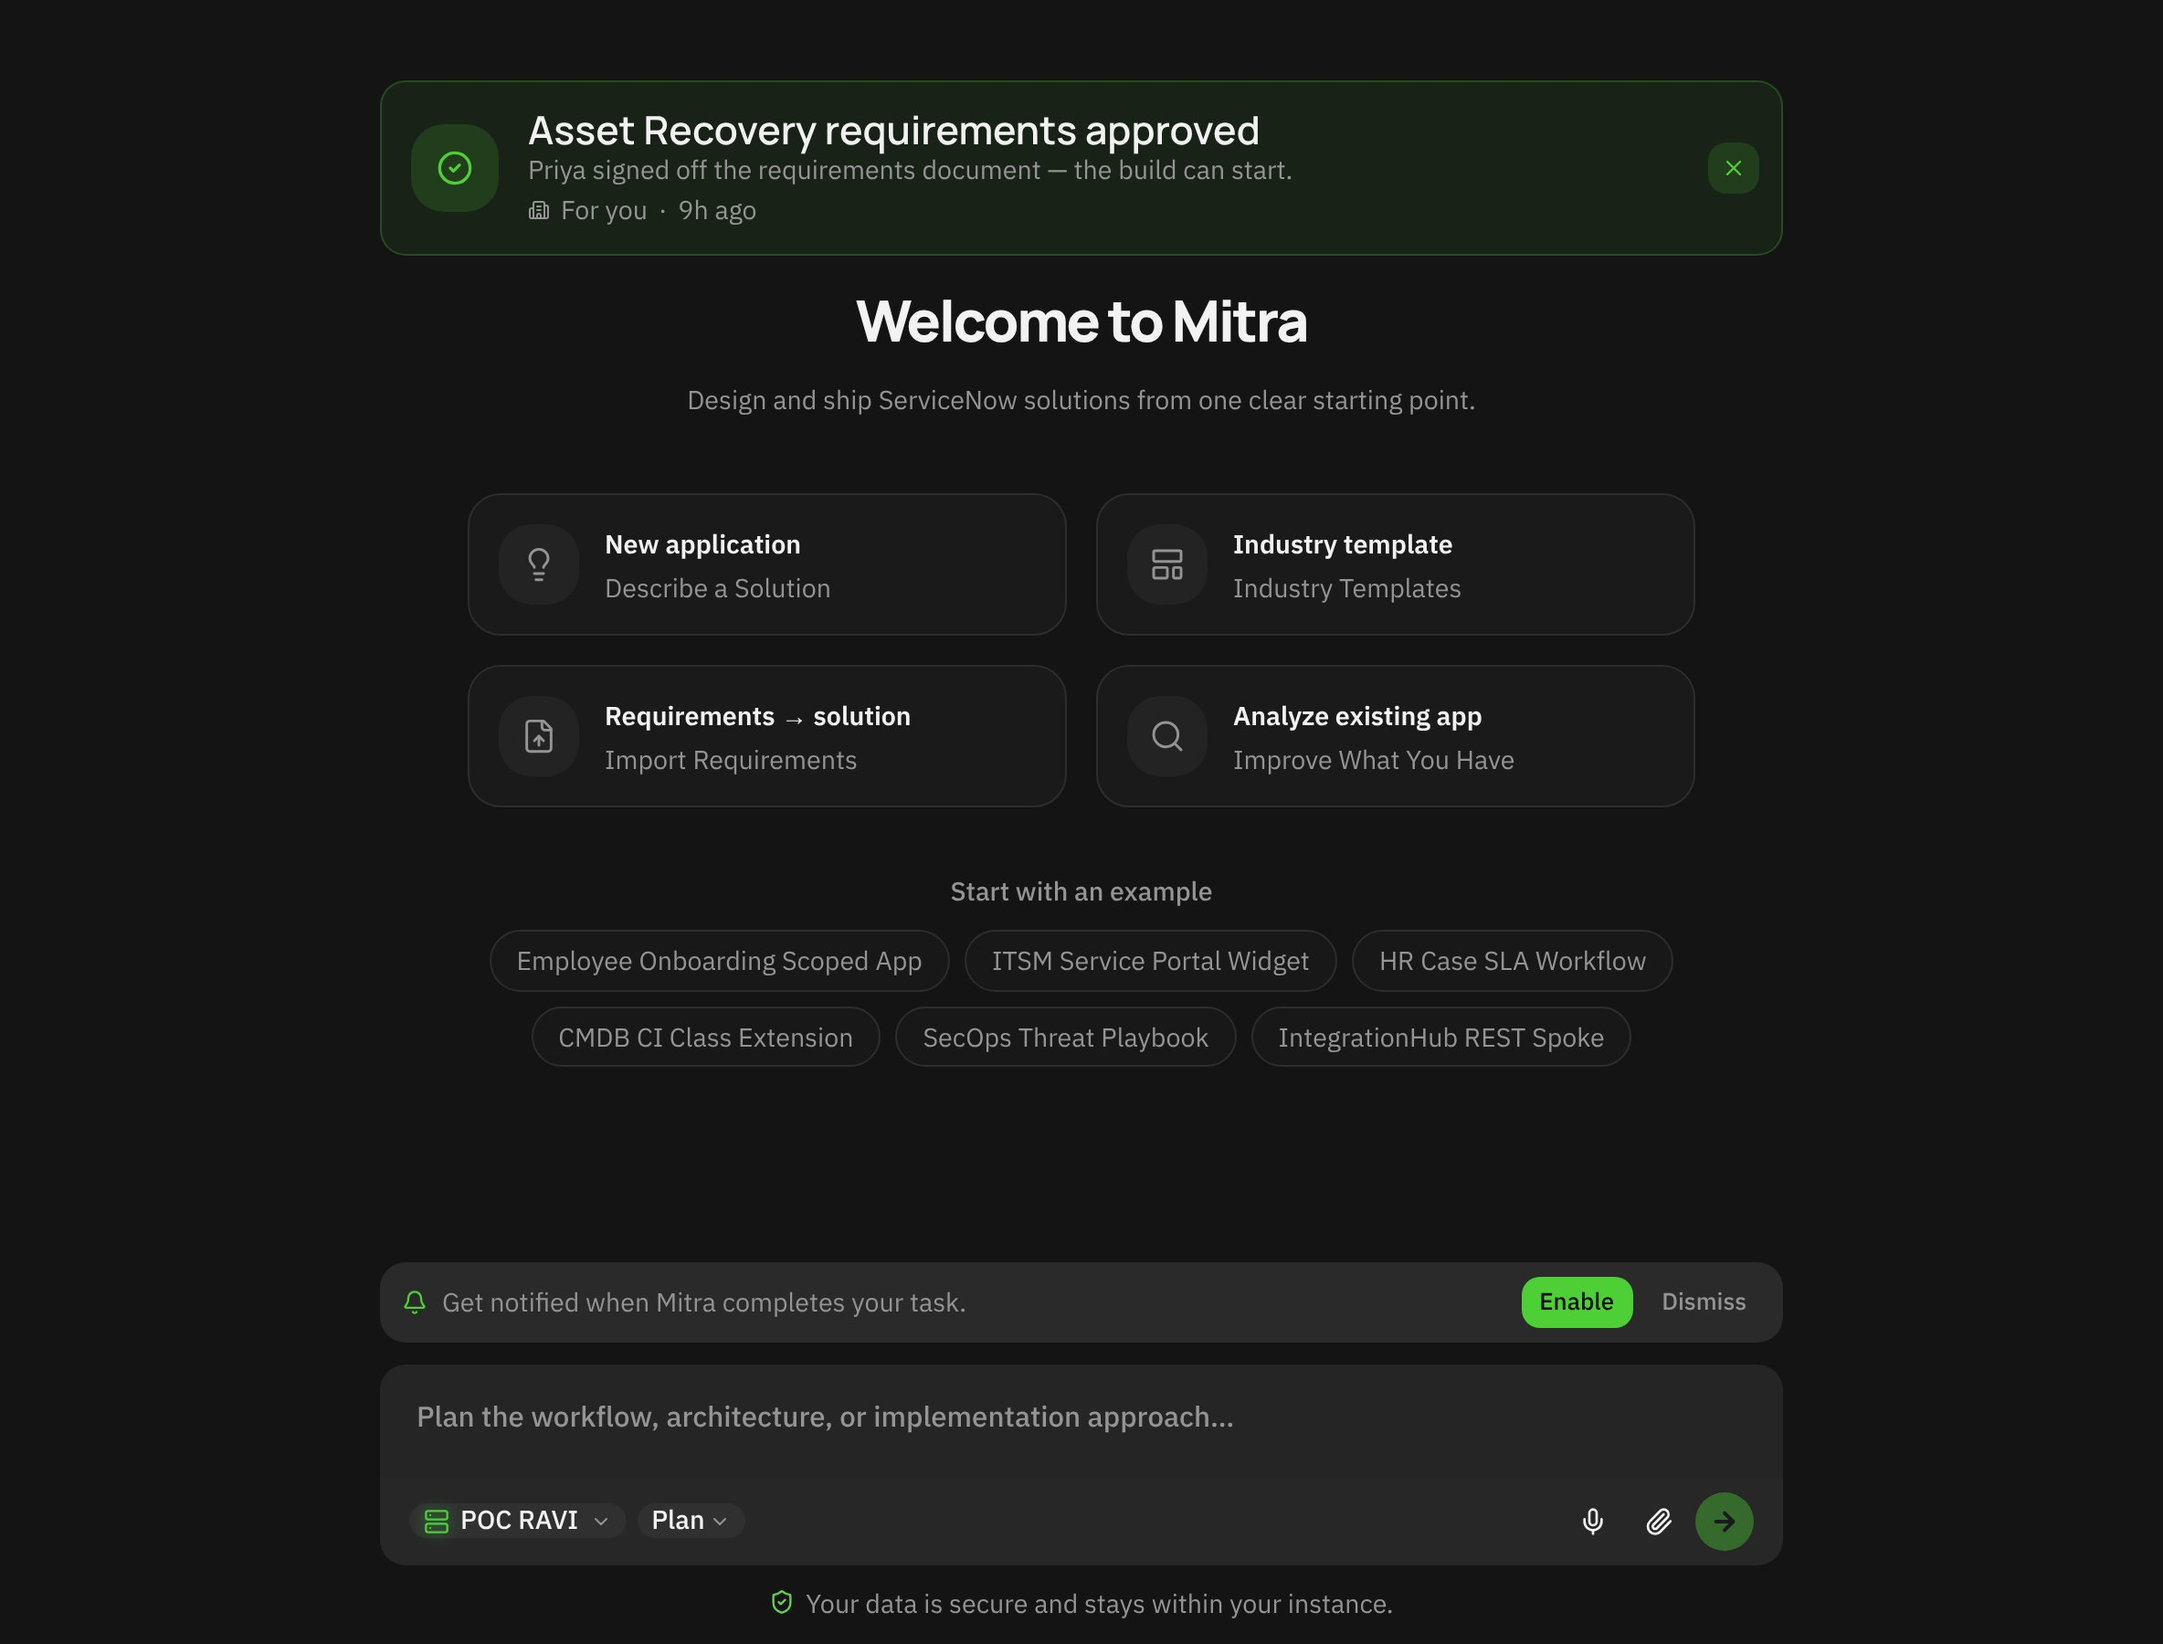
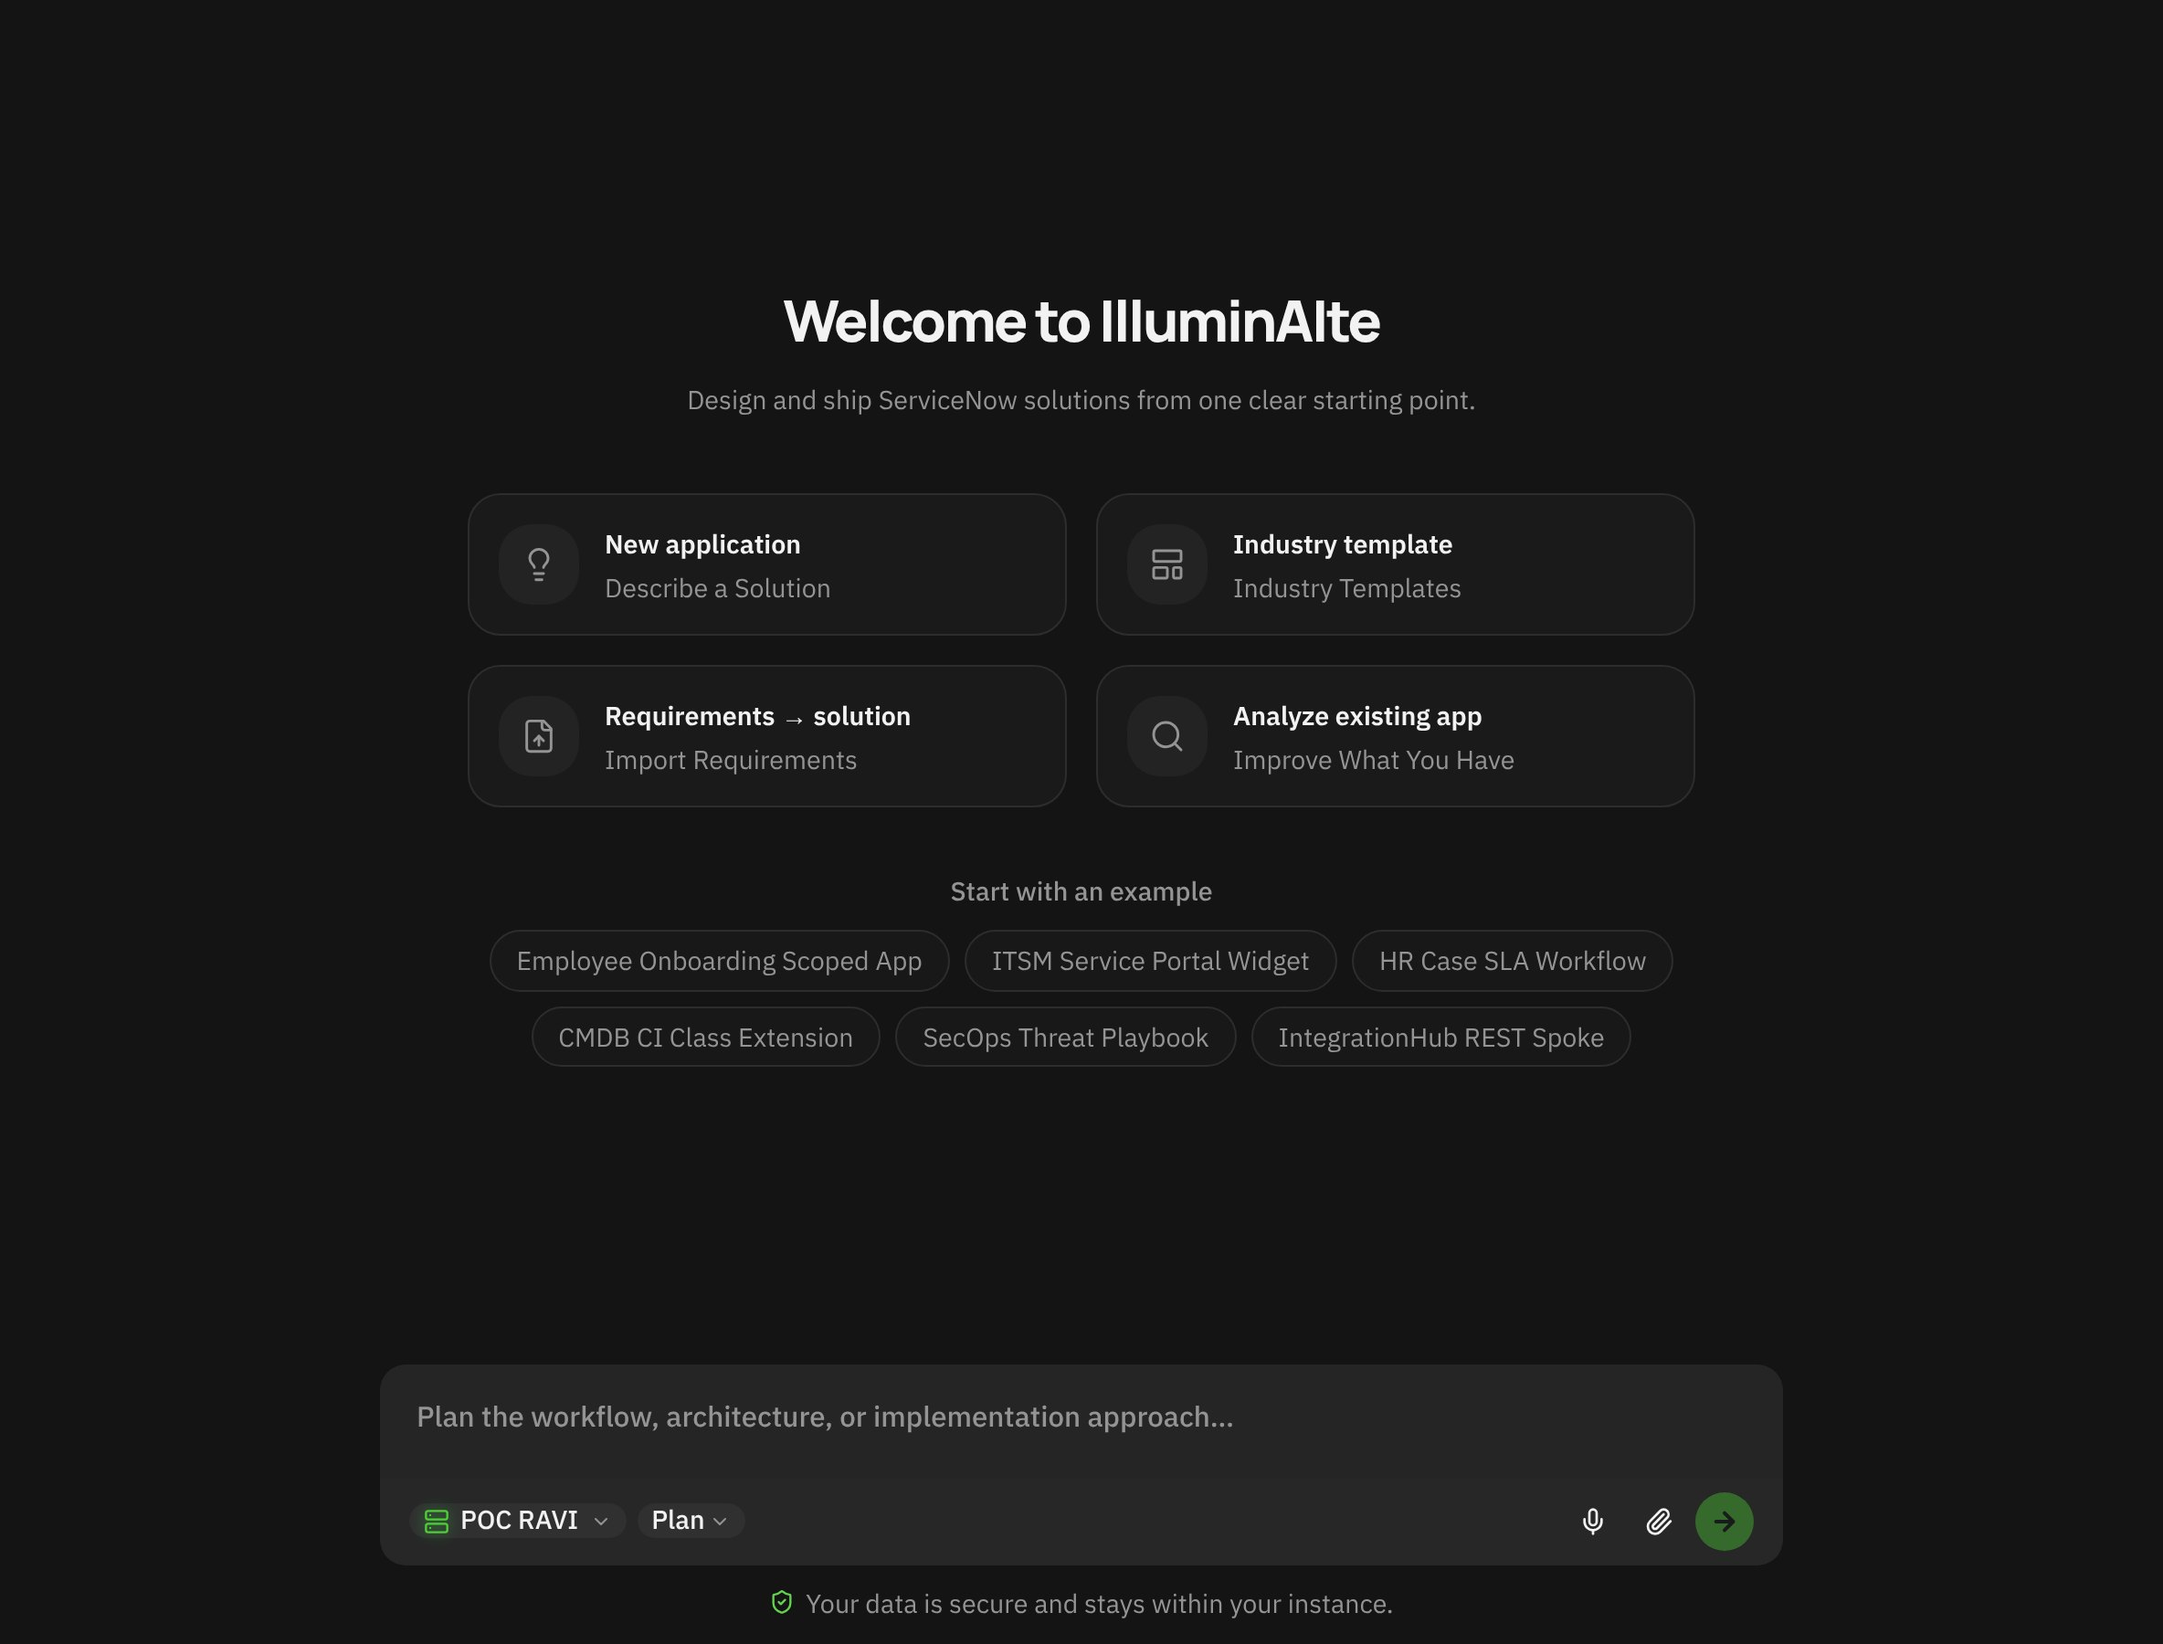
Tech page: rebrand copy to IlluminAIte, fix docked orb badge, refresh screenshots
Claude-Session: https://claude.ai/code/session_01QsqrQaw7z4qmM2Jto7q74M

diff --git a/src/components/tech/TechLiveDemo.tsx b/src/components/tech/TechLiveDemo.tsx
@@ -37,7 +37,7 @@ function phaseFor(done: number, artifacts: number): number {
 }
 
 /**
- * Scripted product demo: a prompt types itself, Mitra plans, checks off its build
+ * Scripted product demo: a prompt types itself, IlluminAIte plans, checks off its build
  * plan, advances the five-phase tracker and produces artifacts, then loops.
  * Copy is taken from the real workspace. Static final state for reduced motion.
  */
@@ -119,7 +119,7 @@ export function TechLiveDemo() {
     <div
       ref={rootRef}
       className="relative grid h-[36rem] grid-cols-1 overflow-hidden bg-background text-foreground md:h-[34rem] md:grid-cols-[1fr_16rem]"
-      aria-label="Animated demo of Mitra building a ServiceNow onboarding app"
+      aria-label="Animated demo of IlluminAIte building a ServiceNow onboarding app"
       role="img"
     >
       <div
@@ -127,20 +127,22 @@ export function TechLiveDemo() {
         aria-hidden
       />
 
-      {/* Orb: centred while idle, docks to the corner once the build starts */}
-      <motion.div
-        className="pointer-events-none absolute z-10 h-64 w-64 -translate-x-1/2 -translate-y-1/2 md:h-72 md:w-72"
-        initial={false}
-        animate={sent ? { left: '2.4rem', top: '2.5rem', scale: 0.16, opacity: 0.95 } : { left: '50%', top: '32%', scale: 1, opacity: 1 }}
-        style={{ marginLeft: 0 }}
-        transition={{ duration: 0.9, ease: [0.22, 1, 0.36, 1] }}
-      >
-        <div
-          className="absolute inset-0 rounded-full bg-brand-green/10 blur-3xl"
-          aria-hidden
-        />
-        <TechOrb energy={energy} className="absolute inset-0" />
-      </motion.div>
+      {/* Hero orb: fades out when the build starts; a small one takes over in the header */}
+      <AnimatePresence>
+        {!sent && (
+          <motion.div
+            key="orb"
+            className="pointer-events-none absolute left-1/2 top-[30%] z-10 h-64 w-64 -translate-x-1/2 -translate-y-1/2 md:h-72 md:w-72"
+            initial={{ opacity: 0, scale: 0.9 }}
+            animate={{ opacity: 1, scale: 1 }}
+            exit={{ opacity: 0, scale: 0.5, y: -40 }}
+            transition={{ duration: 0.7, ease: [0.22, 1, 0.36, 1] }}
+          >
+            <div className="absolute inset-0 rounded-full bg-brand-green/10 blur-3xl" aria-hidden />
+            <TechOrb energy={energy} className="absolute inset-0" />
+          </motion.div>
+        )}
+      </AnimatePresence>
 
       {/* Chat column */}
       <div className="relative flex min-w-0 flex-col border-border md:border-r">
@@ -150,9 +152,10 @@ export function TechLiveDemo() {
               initial={{ opacity: 0 }}
               animate={{ opacity: 1 }}
               transition={{ delay: 0.4 }}
-              className="flex items-center gap-3 border-b border-border px-5 py-3 pl-[4.2rem]"
+              className="flex items-center gap-3 border-b border-border px-5 py-2.5"
             >
-              <span className="font-display text-sm font-extrabold tracking-tight">Mitra</span>
+              <TechOrb energy={energy} pointSize={1.3} className="h-9 w-9 shrink-0" />
+              <span className="font-display text-sm font-extrabold tracking-tight">IlluminAIte</span>
               <span className="font-mono text-[10px] uppercase tracking-[0.2em] text-brand-green">
                 {artifacts >= ARTIFACTS.length ? 'Ready for review' : 'Building'}
               </span>
@@ -189,7 +192,7 @@ export function TechLiveDemo() {
                   className="flex items-center gap-2 text-[13px] text-muted-foreground"
                 >
                   <Loader2 className="h-3.5 w-3.5 animate-spin text-brand-green" />
-                  Mitra is thinking…
+                  IlluminAIte is thinking…
                 </motion.div>
               )}
             </AnimatePresence>
@@ -262,7 +265,7 @@ export function TechLiveDemo() {
                 </>
               ) : (
                 <span className="text-muted-foreground">
-                  {sent ? (artifacts >= ARTIFACTS.length ? 'Awaiting stakeholder approval…' : 'Mitra is working…') : 'Describe the solution you want to build…'}
+                  {sent ? (artifacts >= ARTIFACTS.length ? 'Awaiting stakeholder approval…' : 'IlluminAIte is working…') : 'Describe the solution you want to build…'}
                 </span>
               )}
             </p>

diff --git a/src/components/tech/techData.ts b/src/components/tech/techData.ts
@@ -15,7 +15,7 @@ export const TECH_HERO = {
   eyebrow: 'IlluminAIte Technology',
   title: 'The agentic engine behind every ServiceNow build.',
   subtitle:
-    'Mitra coordinates specialised AI agents that define, build, test, document and deploy on your ServiceNow instance, with a human checkpoint at every promotion.',
+    'IlluminAIte coordinates specialised AI agents that define, build, test, document and deploy on your ServiceNow instance, with a human checkpoint at every promotion.',
 };
 
 export interface TechStage {
@@ -62,7 +62,7 @@ export const TECH_PILLARS: { title: string; desc: string; icon: LucideIcon }[] =
   },
   {
     title: 'Instance-aware AI',
-    desc: 'Mitra grounds builds in your ServiceNow patterns, CMDB and industry playbooks.',
+    desc: 'IlluminAIte grounds builds in your ServiceNow patterns, CMDB and industry playbooks.',
     icon: Sparkles,
   },
   {
@@ -85,27 +85,27 @@ export interface TechFeature {
   url: string;
 }
 
-/** Feature rows. Each image is a real capture of the Mitra workspace. */
+/** Feature rows. Each image is a real capture of the IlluminAIte workspace. */
 export const TECH_FEATURES: TechFeature[] = [
   {
     id: 'start',
     kicker: '01 / Start',
     title: 'Start from a single sentence.',
-    desc: 'Describe a solution, pick an industry template, import requirements, or analyse an app you already have. Mitra takes it from there.',
+    desc: 'Describe a solution, pick an industry template, import requirements, or analyse an app you already have. IlluminAIte takes it from there.',
     bullets: ['New application', 'Industry templates', 'Requirements to solution', 'Analyse an existing app'],
     image: asset('start.jpg'),
-    alt: 'Mitra start screen with four ways to begin a ServiceNow solution',
-    url: 'Mitra · New solution',
+    alt: 'IlluminAIte start screen with four ways to begin a ServiceNow solution',
+    url: 'IlluminAIte · New solution',
   },
   {
     id: 'discovery',
     kicker: '02 / Build',
     title: 'Discovery that drives the build.',
-    desc: 'Mitra plans its own to-dos, asks the next discovery question, and tracks the work through five phases from Define to Deploy.',
+    desc: 'IlluminAIte plans its own to-dos, asks the next discovery question, and tracks the work through five phases from Define to Deploy.',
     bullets: ['Live build plan', 'Phase-gated approvals', 'Five-stage tracker'],
     image: asset('chat-status.jpg'),
-    alt: 'Mitra chat with a generated to-do list and a five-phase status tracker',
-    url: 'Mitra · Discovery chat',
+    alt: 'IlluminAIte chat with a generated to-do list and a five-phase status tracker',
+    url: 'IlluminAIte · Discovery chat',
   },
   {
     id: 'artifacts',
@@ -114,8 +114,8 @@ export const TECH_FEATURES: TechFeature[] = [
     desc: 'Requirements, data model, workflow, role matrix, scripts, tests and a deployment checklist are produced together and stay in sync.',
     bullets: ['Requirements document', 'Data model and workflow', 'Role matrix and scripts', 'Test script and checklist'],
     image: asset('chat-artifacts.jpg'),
-    alt: 'Mitra artifacts panel listing requirements, data model, workflow, role matrix and scripts',
-    url: 'Mitra · Artifacts',
+    alt: 'IlluminAIte artifacts panel listing requirements, data model, workflow, role matrix and scripts',
+    url: 'IlluminAIte · Artifacts',
   },
   {
     id: 'projects',
@@ -124,8 +124,8 @@ export const TECH_FEATURES: TechFeature[] = [
     desc: 'Search, filter and track every solution by status, with shared and organisation views so reviewers always see the latest.',
     bullets: ['Status at a glance', 'Shared and organisational views', 'Searchable history'],
     image: asset('projects.jpg'),
-    alt: 'Mitra projects view with solution cards showing status and artifact counts',
-    url: 'Mitra · Projects',
+    alt: 'IlluminAIte projects view with solution cards showing status and artifact counts',
+    url: 'IlluminAIte · Projects',
   },
 ];
 

diff --git a/src/components/tech/TechArchitecture.tsx b/src/components/tech/TechArchitecture.tsx
@@ -36,7 +36,7 @@ export function TechArchitecture() {
           One orchestrator. Specialised agents. Your ServiceNow instance.
         </h2>
         <p className="mt-5 max-w-2xl text-base leading-relaxed text-muted-foreground">
-          Mitra routes work to the right agent, keeps context shared across stages, and pauses for human approval
+          IlluminAIte routes work to the right agent, keeps context shared across stages, and pauses for human approval
           before anything is promoted.
         </p>
 
@@ -46,7 +46,7 @@ export function TechArchitecture() {
             viewBox={`0 0 ${W} ${H}`}
             className="mx-auto min-w-[640px] w-full"
             role="img"
-            aria-label="Mitra orchestrator coordinating requirements, build, test, documentation and deployment agents"
+            aria-label="IlluminAIte orchestrator coordinating requirements, build, test, documentation and deployment agents"
           >
             {ARCH_NODES.map((n, i) => {
               const p = POSITIONS[i];
@@ -115,7 +115,7 @@ export function TechArchitecture() {
               <foreignObject x={HUB.x - 64} y={HUB.y - 40} width={128} height={80}>
                 <div className="flex h-full flex-col items-center justify-center text-center text-foreground">
                   <Bot className="h-6 w-6 text-brand-green" />
-                  <span className="mt-1 font-display text-sm font-bold">Mitra</span>
+                  <span className="mt-1 font-display text-sm font-bold">IlluminAIte</span>
                   <span className="font-mono text-[10px] text-muted-foreground">orchestrator</span>
                 </div>
               </foreignObject>

diff --git a/src/components/tech/TechPage.tsx b/src/components/tech/TechPage.tsx
@@ -184,7 +184,7 @@ export function TechPage({ onGetStarted, onBack }: TechPageProps) {
           </div>
         </div>
         <div className="relative z-10 mx-auto max-w-6xl px-6 pb-24 pt-8 md:pt-10">
-          <TechProductWindow tilt priority src="" alt="" url="Mitra · New solution">
+          <TechProductWindow tilt priority src="" alt="" url="IlluminAIte · New solution">
             <TechLiveDemo />
           </TechProductWindow>
         </div>
@@ -255,7 +255,7 @@ export function TechPage({ onGetStarted, onBack }: TechPageProps) {
         <div className="pointer-events-none absolute left-1/2 top-1/2 h-[28rem] w-[44rem] -translate-x-1/2 -translate-y-1/2 rounded-full bg-brand-green/10 blur-3xl" />
         <Reveal className="relative mx-auto max-w-3xl px-6 text-center">
           <h2 className="font-display text-5xl font-extrabold leading-[0.98] tracking-[-0.045em] md:text-8xl">
-            See Mitra build on your instance.
+            See IlluminAIte build on your instance.
           </h2>
           <p className="mx-auto mt-6 max-w-xl text-base text-muted-foreground md:text-lg">
             Start from a workshop conversation and finish with a go-live ready ServiceNow implementation.

diff --git a/src/components/tech/TechOrb.tsx b/src/components/tech/TechOrb.tsx
@@ -64,10 +64,12 @@ interface TechOrbProps {
   /** 0 idle, 1 typing, 2 working. Eased internally. */
   energy: number;
   className?: string;
+  /** Point size in CSS px. */
+  pointSize?: number;
 }
 
 /** Particle ring rendered with WebGL; reacts to the demo state through `energy`. */
-export function TechOrb({ energy, className }: TechOrbProps) {
+export function TechOrb({ energy, className, pointSize = 5 }: TechOrbProps) {
   const hostRef = useRef<HTMLDivElement>(null);
   const energyRef = useRef(energy);
   energyRef.current = energy;
@@ -110,7 +112,7 @@ export function TechOrb({ energy, className }: TechOrbProps) {
       uniforms: {
         uTime: { value: 0 },
         uEnergy: { value: 0 },
-        uSize: { value: 5 * renderer.dpr },
+        uSize: { value: pointSize * renderer.dpr },
         uColor: { value: brandColor(host) },
       },
     });
@@ -156,6 +158,7 @@ export function TechOrb({ energy, className }: TechOrbProps) {
       host.removeChild(gl.canvas);
       gl.getExtension('WEBGL_lose_context')?.loseContext();
     };
+  // eslint-disable-next-line react-hooks/exhaustive-deps
   }, []);
 
   return <div ref={hostRef} className={className} aria-hidden />;
